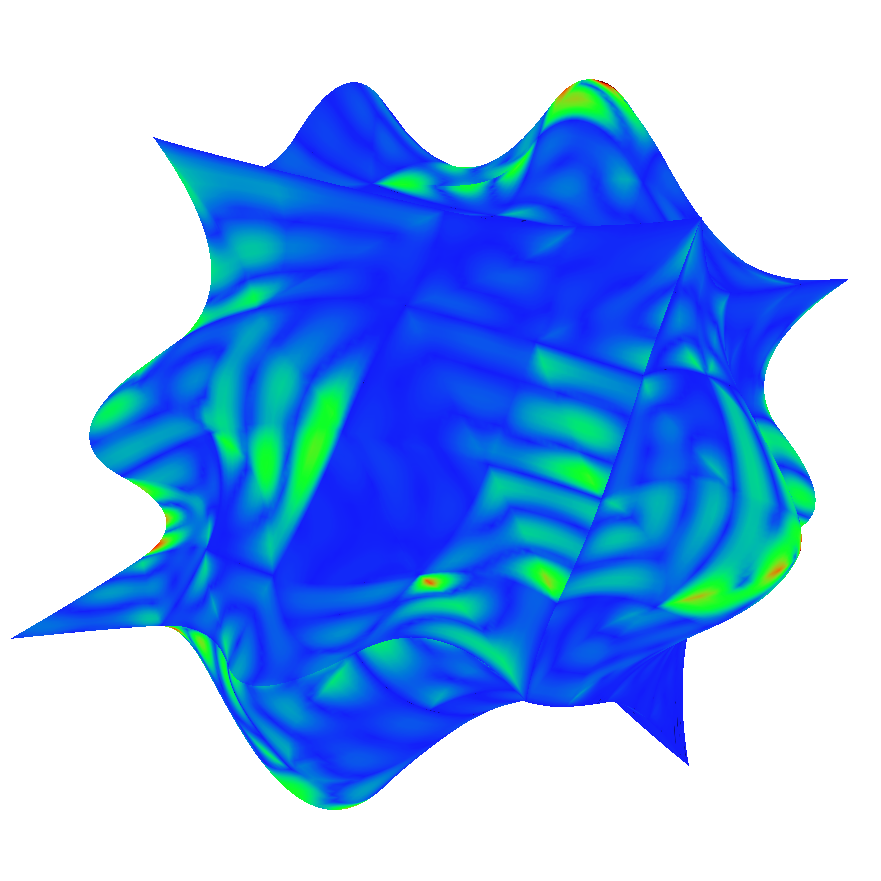
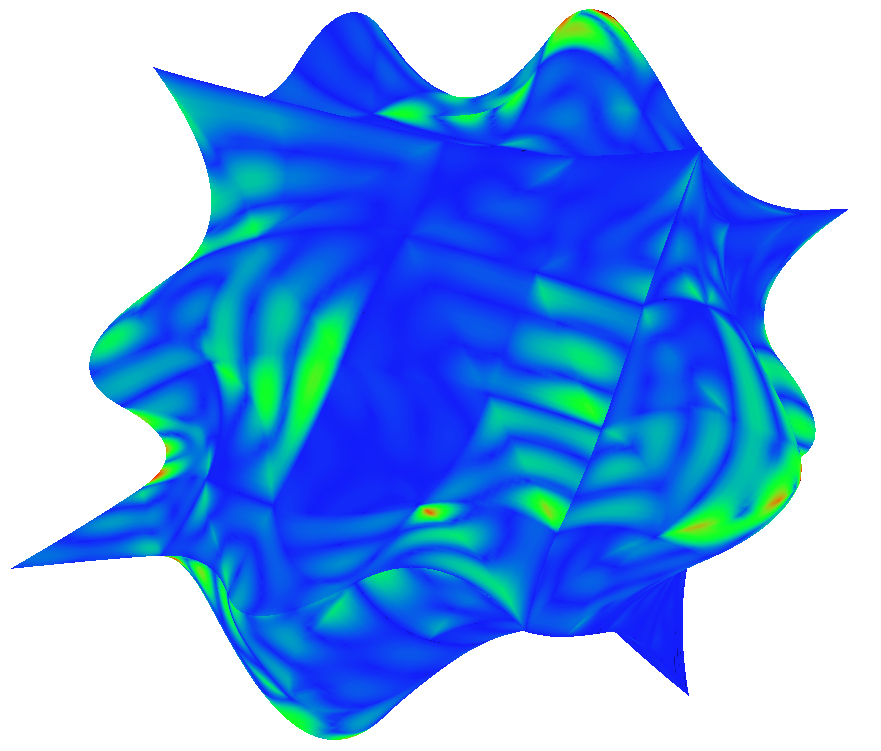
save

diff --git a/script/error_with_color_map.py b/script/error_with_color_map.py
@@ -1,0 +1,71 @@
+from PIL import Image
+from matplotlib.pyplot import *
+import matplotlib.image as mpimg
+
+import sys
+
+sys.path.append('../')
+import util.figure_util as figutil
+
+
+def gen_clip_figure_with_color_map(f4, f5, f1, f2, f3, low_text, high_text):
+    gcf().clear()
+    left_image = mpimg.imread(f4)
+    right_image = mpimg.imread(f5)
+
+    original_size = right_image.shape[1::-1]
+
+    colormap = mpimg.imread('colormap.png').transpose((1, 0, 2))[::-1, ::, ::]
+
+    dst_size = [x for x in original_size]
+    color_map_size = colormap.shape[1::-1]
+
+    right_position = (0, 0)
+    left_position = (original_size[0], 0)
+    color_map_position = [left_position[0] - 30, 20]
+
+    text_offset = 35
+    text_down_position = [color_map_position[0] + text_offset, color_map_position[1]]
+    text_up_position = [color_map_position[0] + text_offset, color_map_position[1] + color_map_size[1] - 20]
+    text_font_size = 24
+
+    output_range_x = [0, original_size[0] * 2 + 50]
+    output_range_y = [0, original_size[1]]
+
+    def get_range_size(x):
+        return x[1] - x[0]
+
+    def ps2e(p, s):
+        return p[0], p[0] + s[0], p[1], p[1] + s[1]
+
+    imshow(left_image, extent=ps2e(right_position, dst_size), zorder=-1)
+    imshow(right_image, extent=ps2e(left_position, dst_size), zorder=-1)
+    imshow(colormap, extent=ps2e(color_map_position, color_map_size), zorder=-1)
+
+    text(*text_down_position, low_text, fontsize=text_font_size)
+    text(*text_up_position, high_text, fontsize=text_font_size)
+    # gca().get_xaxis().set_visible(False)
+    # gca().get_yaxis().set_visible(False)
+    xlim(output_range_x)
+    ylim(output_range_y)
+    dpi = 100
+    gcf().set_size_inches(get_range_size(output_range_x) / dpi, get_range_size(output_range_y) / dpi)
+    # png = '/home/ac/thesis/zju_thesis/figures/clip/clip_compare.png'
+    png = f3
+    gca().axis('off')
+    # savefig(png)
+    savefig(png, bbox_inches='tight', pad_inches=-3 / 100, dpi=dpi)
+    show()
+    figutil.split_lr(png, f1, f2)
+
+
+if __name__ == '__main__':
+    temp = '/home/ac/thesis/zju_thesis/figures/result/cube%d.png'
+    temp2 = 'cube/cube%d.png'
+    for i, j, k in ((4, 6, '0.04'), (5, 7, '30°')):
+        gen_clip_figure_with_color_map(temp2 % i, temp2 % j, temp % i, temp % j, 'cube/res.png', '0', k)
+
+    temp = '/home/ac/thesis/zju_thesis/figures/result/teapot%d.png'
+    temp2 = 'teapot/teapot%d.png'
+    for i, j, k in ((4, 6, '0.04'), (5, 7, '30°')):
+        gen_clip_figure_with_color_map(temp2 % i, temp2 % j, temp % i, temp % j, 'cube/res.png', '0', k)

diff --git a/script/clip_teapot.py b/script/clip_teapot.py
@@ -3,18 +3,26 @@ import itertools
 import sys
 
 
-def crop_teapot(file_path):
-    img = Image.open('teapot/' + file_path)  # type: Image.Image
+def crop_teapot(file_path, output_file_name=None):
+    img = Image.open(file_path)  # type: Image.Image
     w, h = img.size
-    img.crop((0, 100, w, h - 230)).save('/home/ac/thesis/zju_thesis/figures/result/' + file_path)
+    crop = img.crop((0, 100, w, h - 230))
+    if output_file_name is not None:
+        # crop.save('/home/ac/thesis/zju_thesis/figures/result/' + file_path)
+        crop.save(file_path)
 
 
-def crop_cube(file_path):
-    img = Image.open('cube/' + file_path)  # type: Image.Image
+def crop_cube(file_path, output_file_name=None):
+    img = Image.open(file_path)  # type: Image.Image
     w, h = img.size
-    img.crop((0, 70, w, h - 60)).save('/home/ac/thesis/zju_thesis/figures/result/' + file_path)
-
+    crop = img.crop((0, 70, w, h - 60))
+    if output_file_name is not None:
+        # crop.save('/home/ac/thesis/zju_thesis/figures/result/' + file_path)
+        crop.save(file_path)
 
 if __name__ == '__main__':
     for i in range(1, 8):
-        crop_cube('cube%d.png' % i)
+        crop_cube('cube/cube%d.png' % i, 'cube/cube%d.png' % i)
+
+    for i in range(1, 8):
+        crop_teapot('teapot/teapot%d.png' % i, 'teapot/teapot%d.png' % i)

diff --git a/util/figure_util.py b/util/figure_util.py
@@ -68,10 +68,19 @@ def draw_zoom(fig: Figure, zoomed_area, show_left_low, show_x_length):
     axes.plot(*left_right_bottom_top_2_xs_ys(extent), '-k')
 
 
-def split_lr(file_path: str):
+def split_lr(file_path: str, f1=None, f2=None):
     dot_position = file_path.rfind('.')
-    left_file_path = file_path[:dot_position] + '0' + file_path[dot_position:]
-    right_file_path = file_path[:dot_position] + '1' + file_path[dot_position:]
+
+    if f1 is None:
+        left_file_path = file_path[:dot_position] + '0' + file_path[dot_position:]
+    else:
+        left_file_path = f1
+
+    if f2 is None:
+        right_file_path = file_path[:dot_position] + '1' + file_path[dot_position:]
+    else:
+        right_file_path = f2
+
     im = Image.open(file_path)  # type: Image.Image
     width, height = im.size
     im.crop((0, 0, int(width / 2), height)) \
